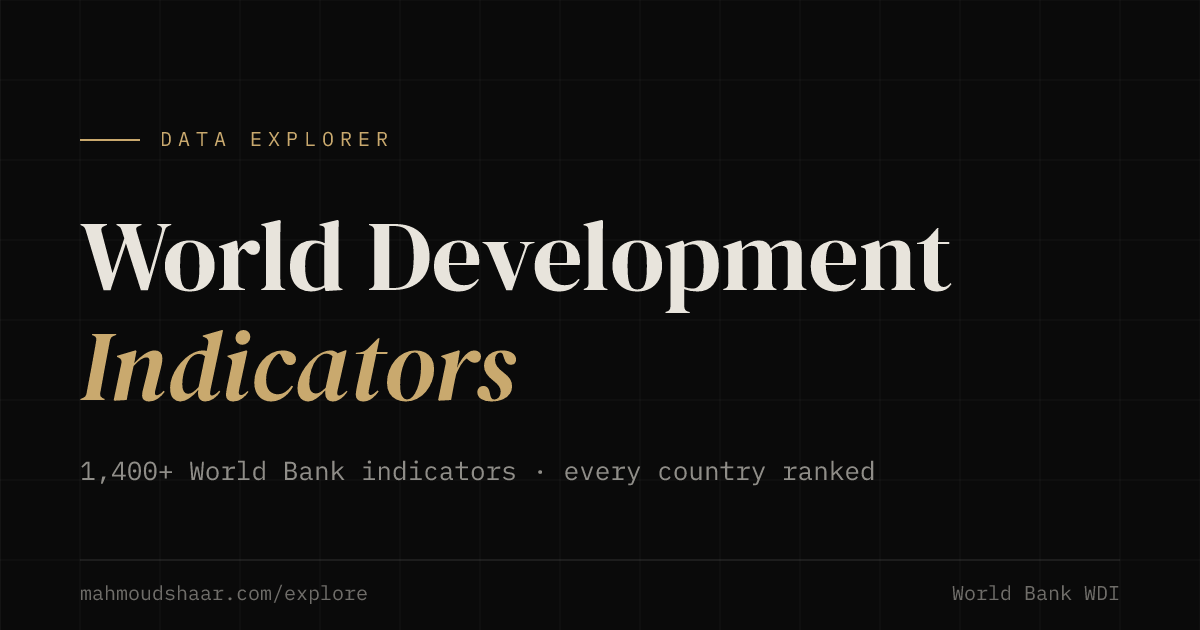
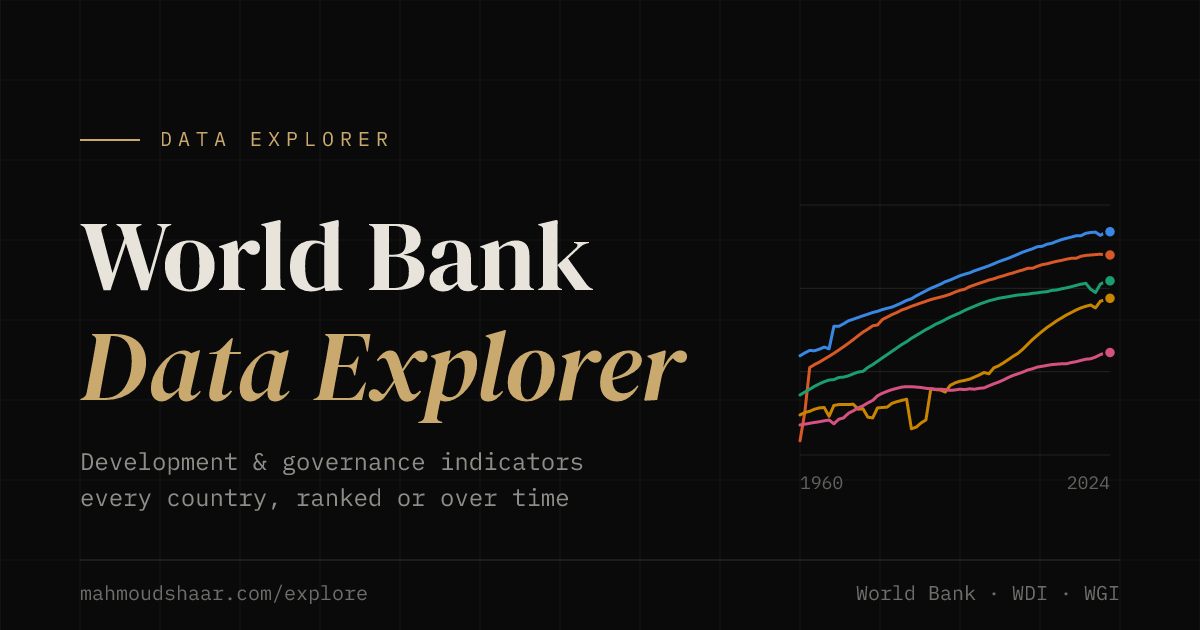
Previews: home shows the data explorer; explorer covers both datasets (#39)
* Home preview: show the data explorer, drop "what's next"

The link-preview image now lists the data explorer's icon beside the three
games (as on the home page cards), and the line under the title reads
"Three Arabic word games · a World Bank data explorer".

* Explorer preview: both datasets, with the opening scene's chart

The explorer's link-preview image now reads "World Bank / Data Explorer",
"Development & governance indicators / every country, ranked or over time",
with a small version of the page's opening chart (life expectancy
1960-2024, five countries, from introData.ts) on the right. The footer
names both datasets, and og:image:alt matches.

diff --git a/tools/og.ts b/tools/og.ts
@@ -13,6 +13,8 @@ import { basename, join, resolve } from "node:path";
 import { pathToFileURL } from "node:url";
 import { inflateSync } from "node:zlib";
 import { Resvg } from "@resvg/resvg-js";
+import { INTRO_SERIES } from "../src/pages/explore/introData";
+import { COLORS } from "../src/pages/explore/timeSeries";
 
 const ROOT = resolve(import.meta.dirname, "..");
 const OUT = resolve(ROOT, "public/og");
@@ -131,6 +133,9 @@ const DALLAH = `
   <path d="M8.4 16.3C6.1 15.7 4.5 13.2 3.5 9.7L2.3 8.9"/>
   <path d="M14.9 16.2c2.3-.8 3.4-2.5 3.2-4.5-.2-1.6-1.6-2.4-3.4-2.2l-2.4.9"/>
   <path d="M18.3 19h3.4l-.6 2h-2.2z"/>`;
+const BARS = `
+  <path d="M4 3v18"/>
+  <path d="M4 6h15M4 10h12M4 14h8M4 18h5"/>`;
 
 /** Draws one of the icons above at (x, y), `size` px square, with a stroke `stroke` px wide. */
 const icon = (paths: string, x: number, y: number, size: number, color: string, stroke: number) => {
@@ -139,31 +144,59 @@ const icon = (paths: string, x: number, y: number, size: number, color: string, 
   </g>`;
 };
 
+/**
+ * The explorer's opening-scene chart (life expectancy 1960–2024, src/pages/explore/introData.ts),
+ * small, in the box (x0, y0)–(x1, y1): faint gridlines, a line per country, a dot at each end.
+ */
+function lifeChart(x0: number, y0: number, x1: number, y1: number): string {
+  const [min, max] = [30, 90];
+  const n = INTRO_SERIES[0].values.length;
+  const x = (i: number) => x0 + (i / (n - 1)) * (x1 - x0);
+  const y = (v: number) => y1 - ((v - min) / (max - min)) * (y1 - y0);
+  const r = (v: number) => Math.round(v * 10) / 10;
+  const grid = [30, 50, 70, 90]
+    .map((v) => `<line x1="${x0}" x2="${x1}" y1="${y(v)}" y2="${y(v)}" stroke="${PAPER}" stroke-opacity="0.1"/>`)
+    .join("");
+  const lines = INTRO_SERIES.map((s, slot) => {
+    const d = "M" + s.values.map((v, i) => `${r(x(i))} ${r(y(v))}`).join("L");
+    const end = s.values[n - 1];
+    return `<path d="${d}" fill="none" stroke="${COLORS[slot]}" stroke-width="3" stroke-linejoin="round" stroke-linecap="round"/>
+    <circle cx="${x1}" cy="${r(y(end))}" r="6" fill="${COLORS[slot]}" stroke="${INK}" stroke-width="2.5"/>`;
+  }).join("");
+  return `${grid}${lines}
+  <text x="${x0}" y="${y1 + 34}" font-family="${MONO}" font-size="18" fill="${PAPER}" fill-opacity="0.4">1960</text>
+  <text x="${x1}" y="${y1 + 34}" text-anchor="end" font-family="${MONO}" font-size="18" fill="${PAPER}" fill-opacity="0.4">2024</text>`;
+}
+
 const IMAGES: Record<string, string> = {
-  // The three daily games' icons, as on the home page cards.
+  // The home page cards' icons: the three daily games and the data explorer.
   home: frame(`
   ${overline("MAHMOUD SHAAR")}
   <text x="80" y="285" font-family="${SERIF}" font-size="92" fill="${PAPER}">Things I make</text>
   <text x="80" y="395" font-family="${SERIF}" font-style="italic" font-size="92" fill="${GOLD}">after hours.</text>
-  <text x="80" y="470" font-family="${MONO}" font-size="26" fill="${PAPER}" fill-opacity="0.6">Arabic games · data tools · what's next</text>
+  <text x="80" y="470" font-family="${MONO}" font-size="26" fill="${PAPER}" fill-opacity="0.6">Three Arabic word games · a World Bank data explorer</text>
   ${[
     { paths: HARAKA, name: "شَكِّل", color: GOLD },
     { paths: CITADEL, name: "حلبيّات", color: GOLD },
     { paths: DALLAH, name: "عربيّات", color: SKY },
+    { paths: BARS, name: "Data", color: GOLD, latin: true },
   ]
     .map(
-      (g, i) => `${icon(g.paths, 785 + i * 120, 220, 90, g.color, 2.4)}
-  <text x="${830 + i * 120}" y="375" text-anchor="middle" font-family="Amiri" font-weight="700" font-size="36" fill="${g.color}">${g.name}</text>`,
+      (g, i) => `${icon(g.paths, 700 + i * 112, 226, 80, g.color, 2.4)}
+  <text x="${740 + i * 112}" y="370" text-anchor="middle" font-family="${g.latin ? SERIF : "Amiri"}" ${g.latin ? 'font-style="italic" font-size="34"' : 'font-weight="700" font-size="34"'} fill="${g.color}">${g.name}</text>`,
     )
     .join("\n  ")}
   ${footer("mahmoudshaar.com", "Houston, TX · Software Engineer")}`),
 
+  // The chart is the page's opening scene: life expectancy, 1960–2024, five countries.
   explore: frame(`
   ${overline("DATA EXPLORER")}
-  <text x="80" y="290" font-family="${SERIF}" font-size="100" fill="${PAPER}">World Development</text>
-  <text x="80" y="400" font-family="${SERIF}" font-style="italic" font-size="100" fill="${GOLD}">Indicators</text>
-  <text x="80" y="480" font-family="${MONO}" font-size="26" fill="${PAPER}" fill-opacity="0.6">1,400+ World Bank indicators · every country ranked</text>
-  ${footer("mahmoudshaar.com/explore", "World Bank WDI")}`),
+  <text x="80" y="290" font-family="${SERIF}" font-size="100" fill="${PAPER}">World Bank</text>
+  <text x="80" y="400" font-family="${SERIF}" font-style="italic" font-size="100" fill="${GOLD}">Data Explorer</text>
+  <text x="80" y="470" font-family="${MONO}" font-size="24" fill="${PAPER}" fill-opacity="0.6">Development &amp; governance indicators</text>
+  <text x="80" y="506" font-family="${MONO}" font-size="24" fill="${PAPER}" fill-opacity="0.6">every country, ranked or over time</text>
+  ${lifeChart(800, 205, 1110, 455)}
+  ${footer("mahmoudshaar.com/explore", "World Bank · WDI · WGI")}`),
 
   // The sample line must never be a real puzzle (it would spoil it); it is reserved in
   // content/shakkil/rejected.yaml.

diff --git a/explore/index.html b/explore/index.html
@@ -14,7 +14,7 @@
     <meta property="og:image" content="https://mahmoudshaar.com/og/explore.png" />
     <meta property="og:image:width" content="1200" />
     <meta property="og:image:height" content="630" />
-    <meta property="og:image:alt" content="World Development Indicators explorer" />
+    <meta property="og:image:alt" content="World Bank Data Explorer: development and governance indicators, ranked or over time" />
     <meta name="twitter:card" content="summary_large_image" />
   </head>
   <body>
